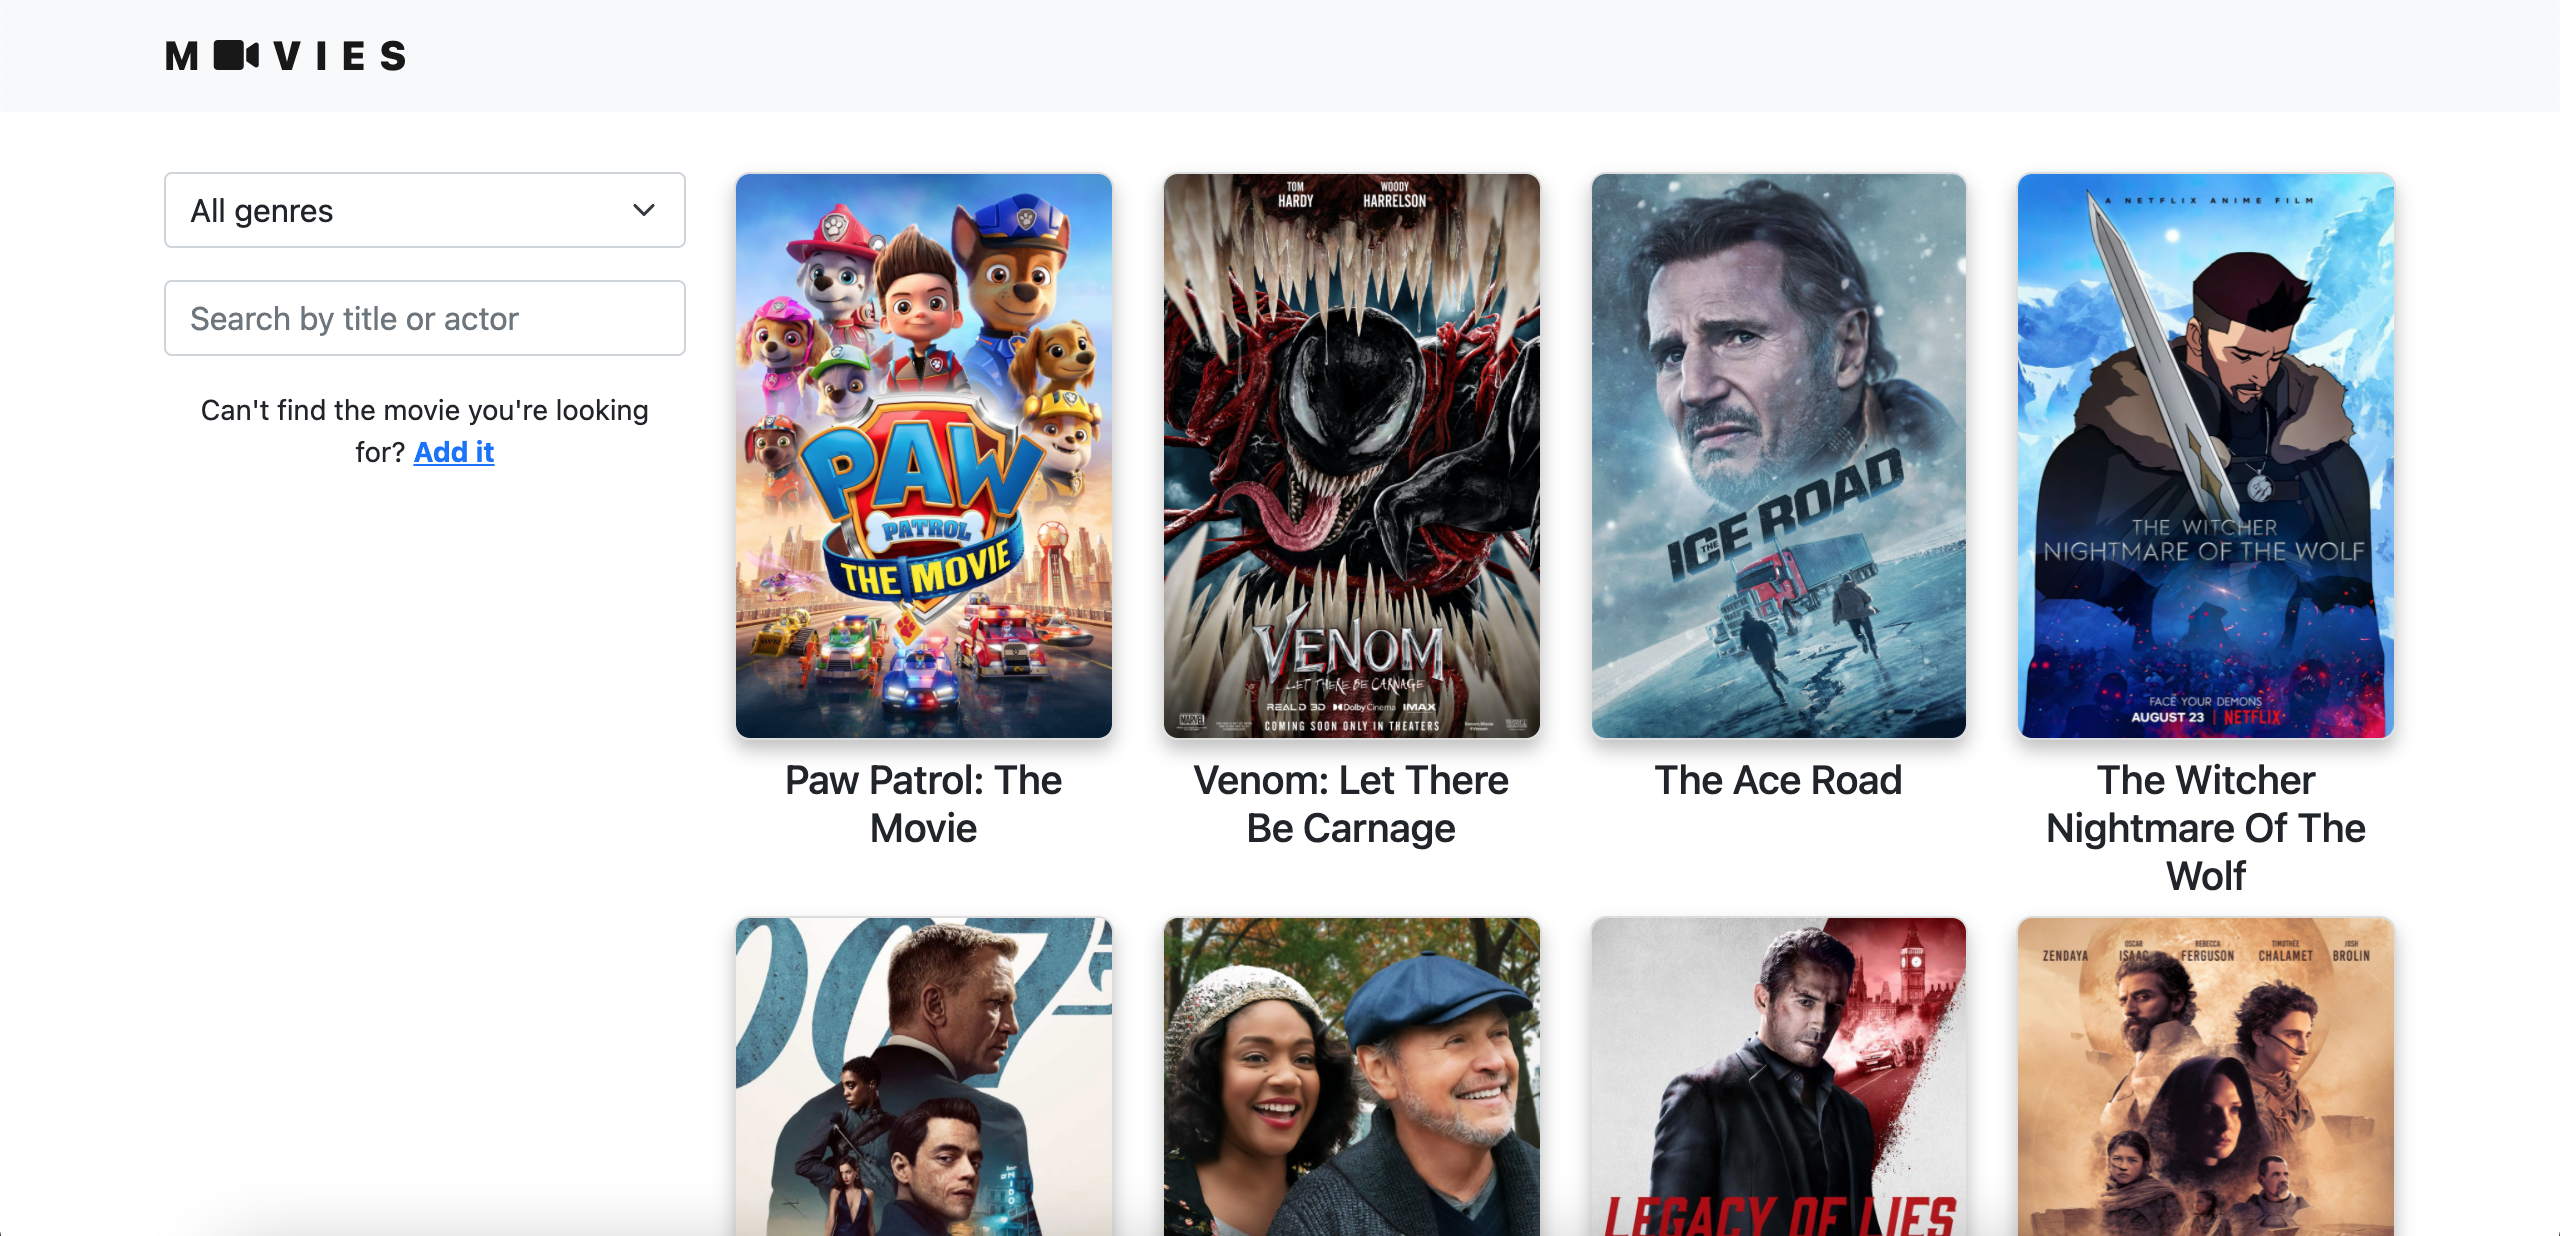
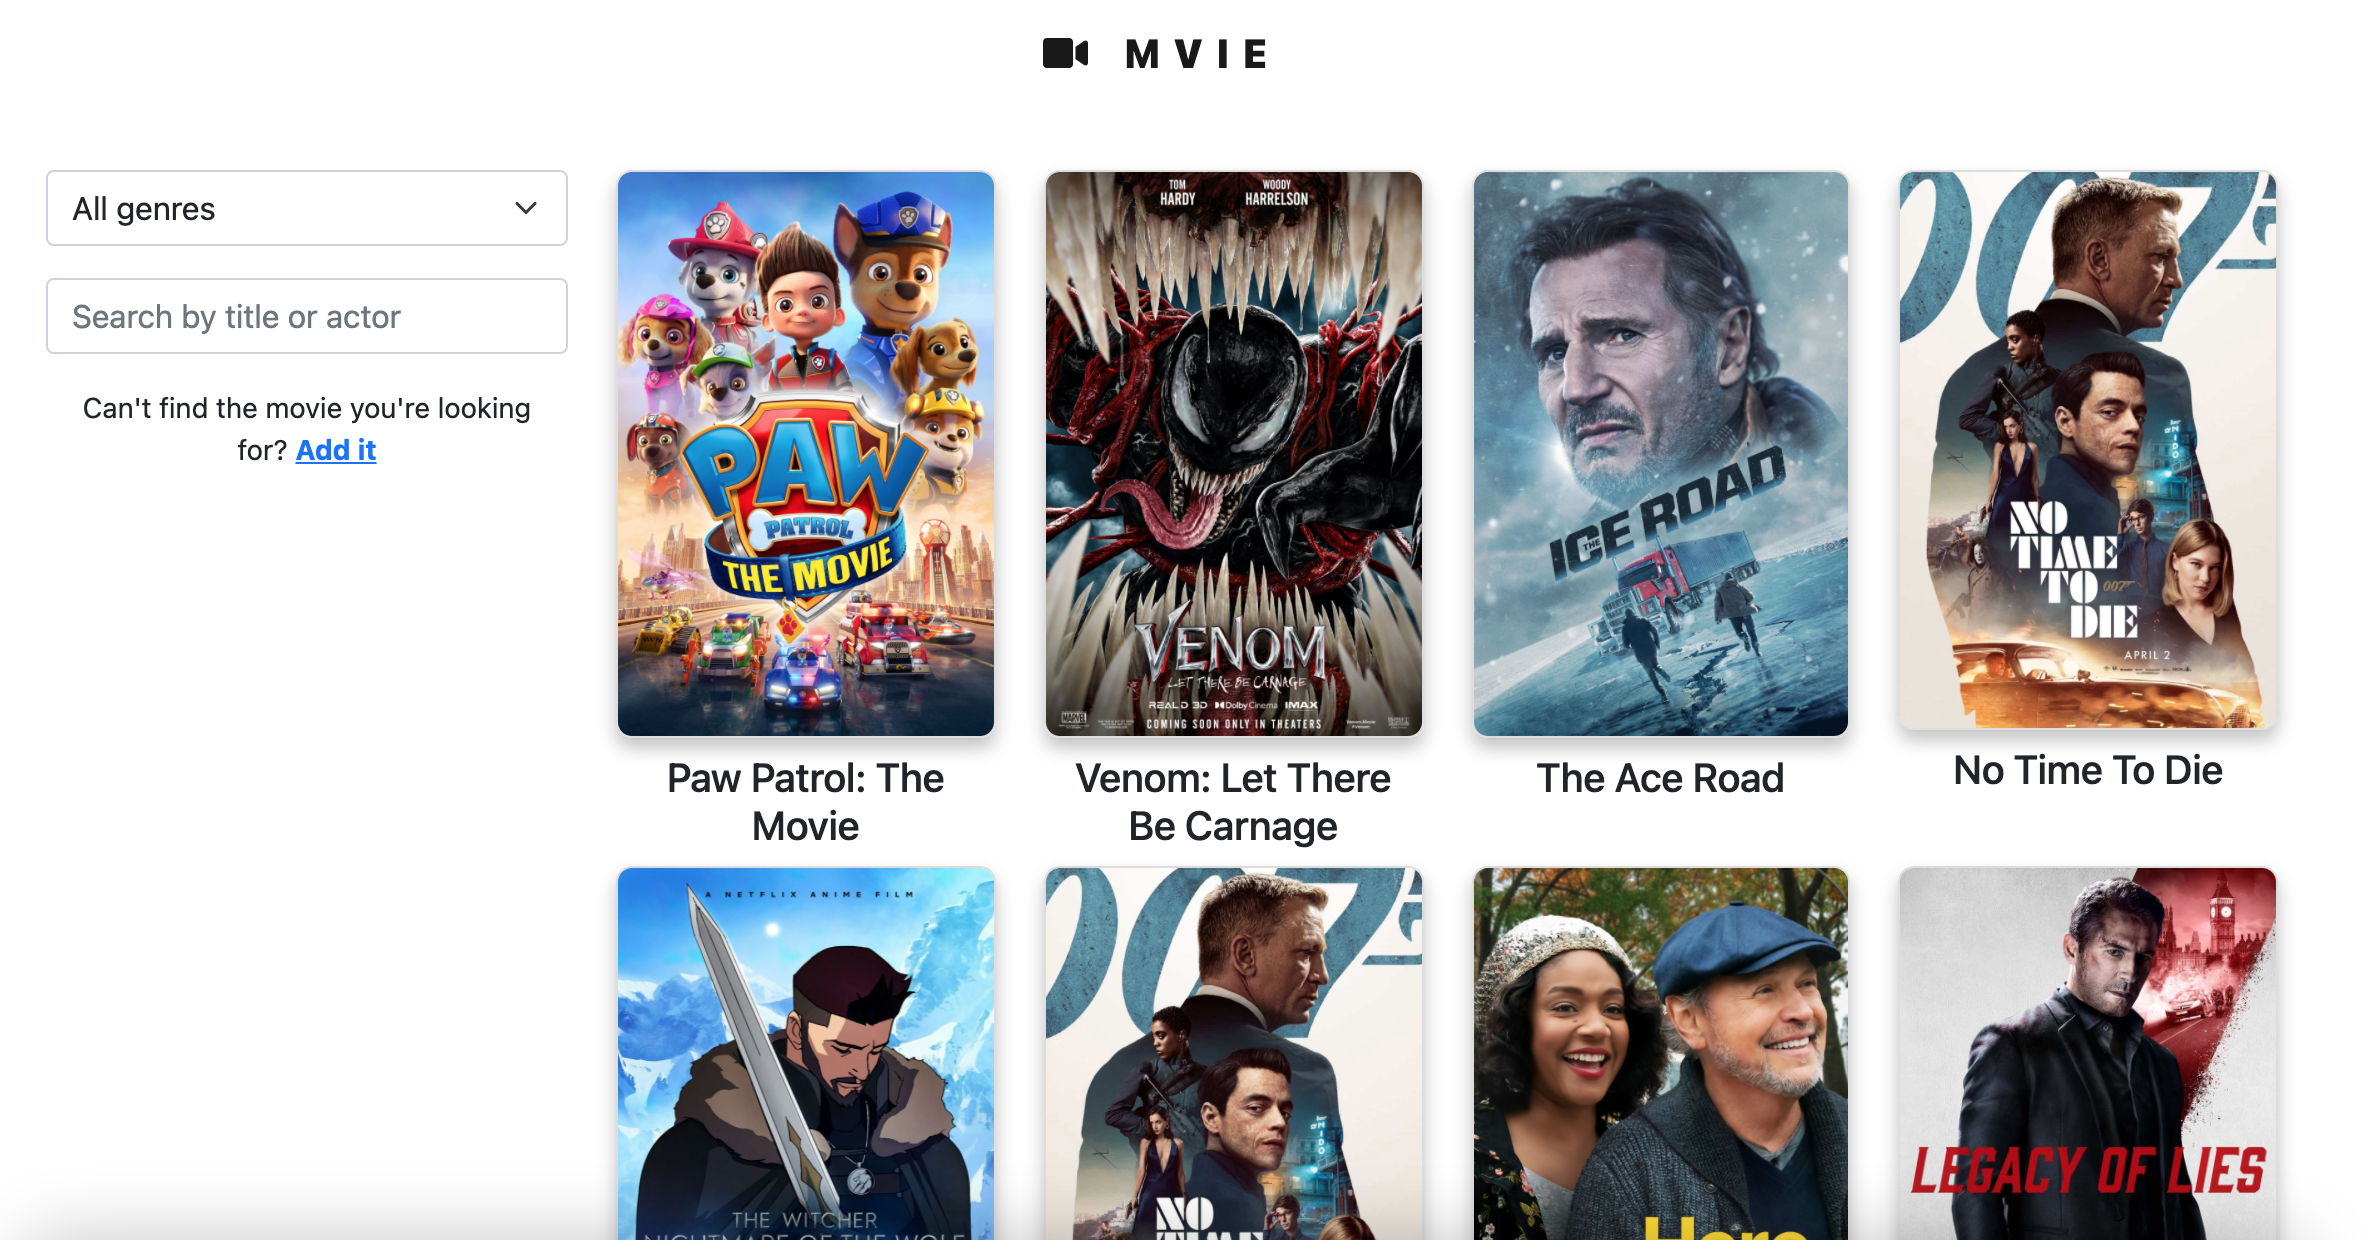
some updates

diff --git a/client/src/Pages/NewMovie/NewMovie.jsx b/client/src/Pages/NewMovie/NewMovie.jsx
@@ -29,17 +29,17 @@ function NewMovie() {
       <div className="bg-img-2">
         <div className="container page-container">
           <section className="new-movie">
-            <div className="row pb-3">
-              <div className="col-12">
+            <div className="row pb-3 justify-content-center">
+              <div className="col-md-6">
                 <Link to="/" className="fw-bold">
                   Back
                 </Link>
               </div>
             </div>
-            <div className="row">
-              <div className="col-md-5">
+            <div className="row justify-content-center">
+              <div className="col-md-6">
                 <div className="form-col">
-                  <h1 className="fw-bold mb-4">New Movie</h1>
+                  <h1 className="fw-bold mb-4 text-center">New Movie</h1>
                   <NewMovieForm
                     onNewMovie={newMovieHandler}
                     onCancel={cancelSubmissionHandler}

diff --git a/client/src/Components/UI/Navigation.jsx b/client/src/Components/UI/Navigation.jsx
@@ -2,10 +2,10 @@ import { NavLink } from "react-router-dom";
 
 function Navigation() {
   return (
-    <nav className="navbar navbar-light bg-light">
+    <nav className="navbar navbar-light">
       <div className="container">
-        <NavLink className="navbar-brand" to="/">
-          M<i className="fas fa-video"></i>vies
+        <NavLink className="navbar-brand mx-auto" to="/">
+          <i className="fas fa-video"></i> Mvie
         </NavLink>
       </div>
     </nav>

diff --git a/client/src/Pages/NewMovie/newMovie.css b/client/src/Pages/NewMovie/newMovie.css
@@ -7,9 +7,9 @@
 
 .bg-img-2 {
   background-image: url("../../images/download.png");
-  background-size: 50%;
+  background-size: 30%;
   background-repeat: no-repeat;
-  background-position: 70% 10%;
+  background-position: 5% 10%;
 }
 
 .new-movie {

diff --git a/README.md b/README.md
@@ -1,4 +1,4 @@
-# Movies Manager
+# Movies Manager Demo
 
 ## Table of Contents
 
@@ -19,6 +19,7 @@
 - Show movie details
 - Filter movies by genre
 - Search movies by title and actors
+- Delete movies
 
 ## Screenshots
 
@@ -26,17 +27,15 @@
 
 ![pic2](./pics/v3-2.png)
 
-![pic3](./pics/v3-3.png)
-
-![pic4](./pics/v3-4.png)
-
 ## Setup
 
 **Client**
 
 ```
 cd client
+
 npm install
+
 npm start
 
 ```
